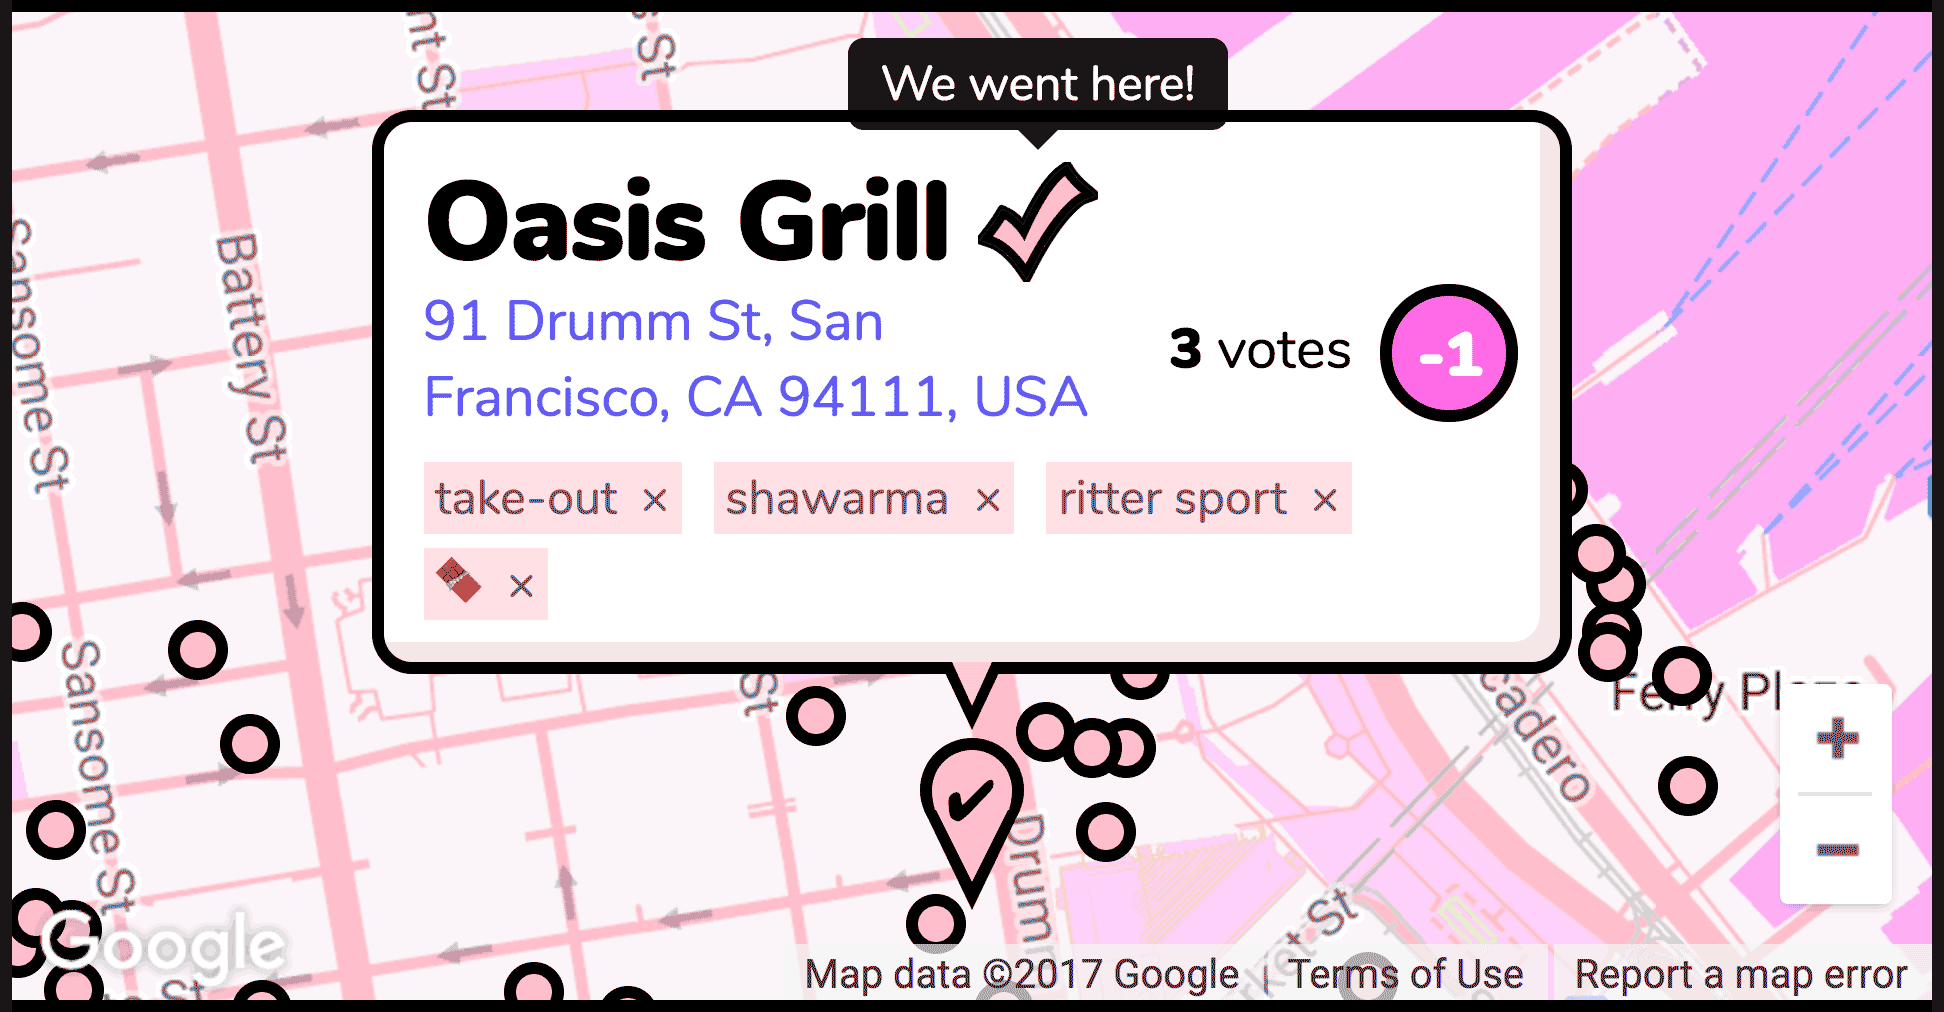
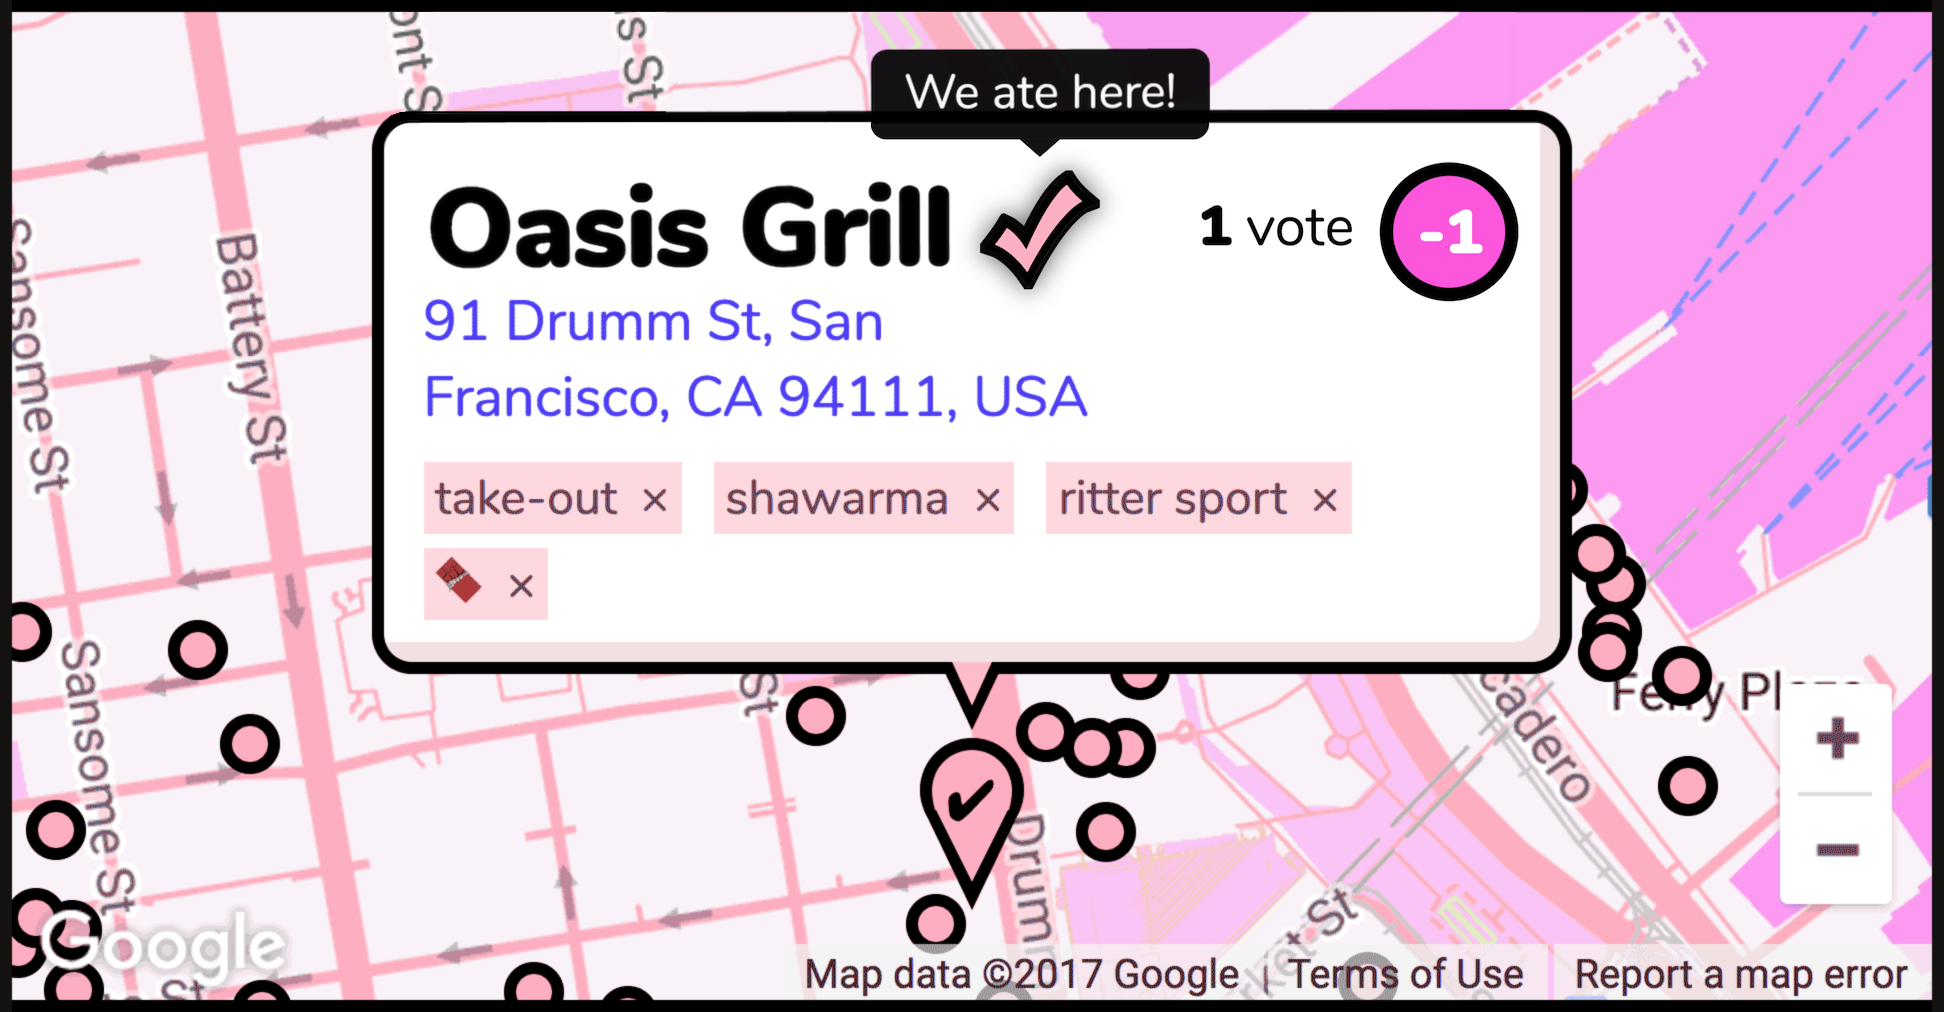
Change decision text
Change decision text from “We went here” to “We ate here”

Closes #143

diff --git a/src/components/RestaurantDecision/RestaurantDecision.js b/src/components/RestaurantDecision/RestaurantDecision.js
@@ -8,7 +8,7 @@ import s from './RestaurantDecision.scss';
 // TODO return null when upgrading to React 15
 const RestaurantDecision = ({ id, votes, decided, loggedIn, handleClick }) => {
   const tooltip = (
-    <Tooltip id={`restaurantDecisionTooltip_${id}`}>We went here{decided ? '!' : '?'}</Tooltip>
+    <Tooltip id={`restaurantDecisionTooltip_${id}`}>We ate here{decided ? '!' : '?'}</Tooltip>
   );
 
   return ((loggedIn && votes.length > 0) || decided) &&

diff --git a/src/components/RestaurantDropdown/RestaurantDropdown.js b/src/components/RestaurantDropdown/RestaurantDropdown.js
@@ -39,7 +39,7 @@ const RestaurantDropdown = ({
   } else {
     decideButton = (
       <MenuItem onSelect={showPastDecisionsModal} key={`restaurantDropdown_${restaurant.id}_showPastDecisionsModal`}>
-        We went here...
+        We ate here...
       </MenuItem>
     );
   }

diff --git a/src/components/PastDecisionsModal/PastDecisionsModal.js b/src/components/PastDecisionsModal/PastDecisionsModal.js
@@ -58,7 +58,7 @@ class PastDecisionsModal extends Component {
     return (
       <Modal show={shown} onHide={hideModal}>
         <ModalHeader>
-          We went here...
+          We ate here...
         </ModalHeader>
         <ModalBody>
           <FormControl
